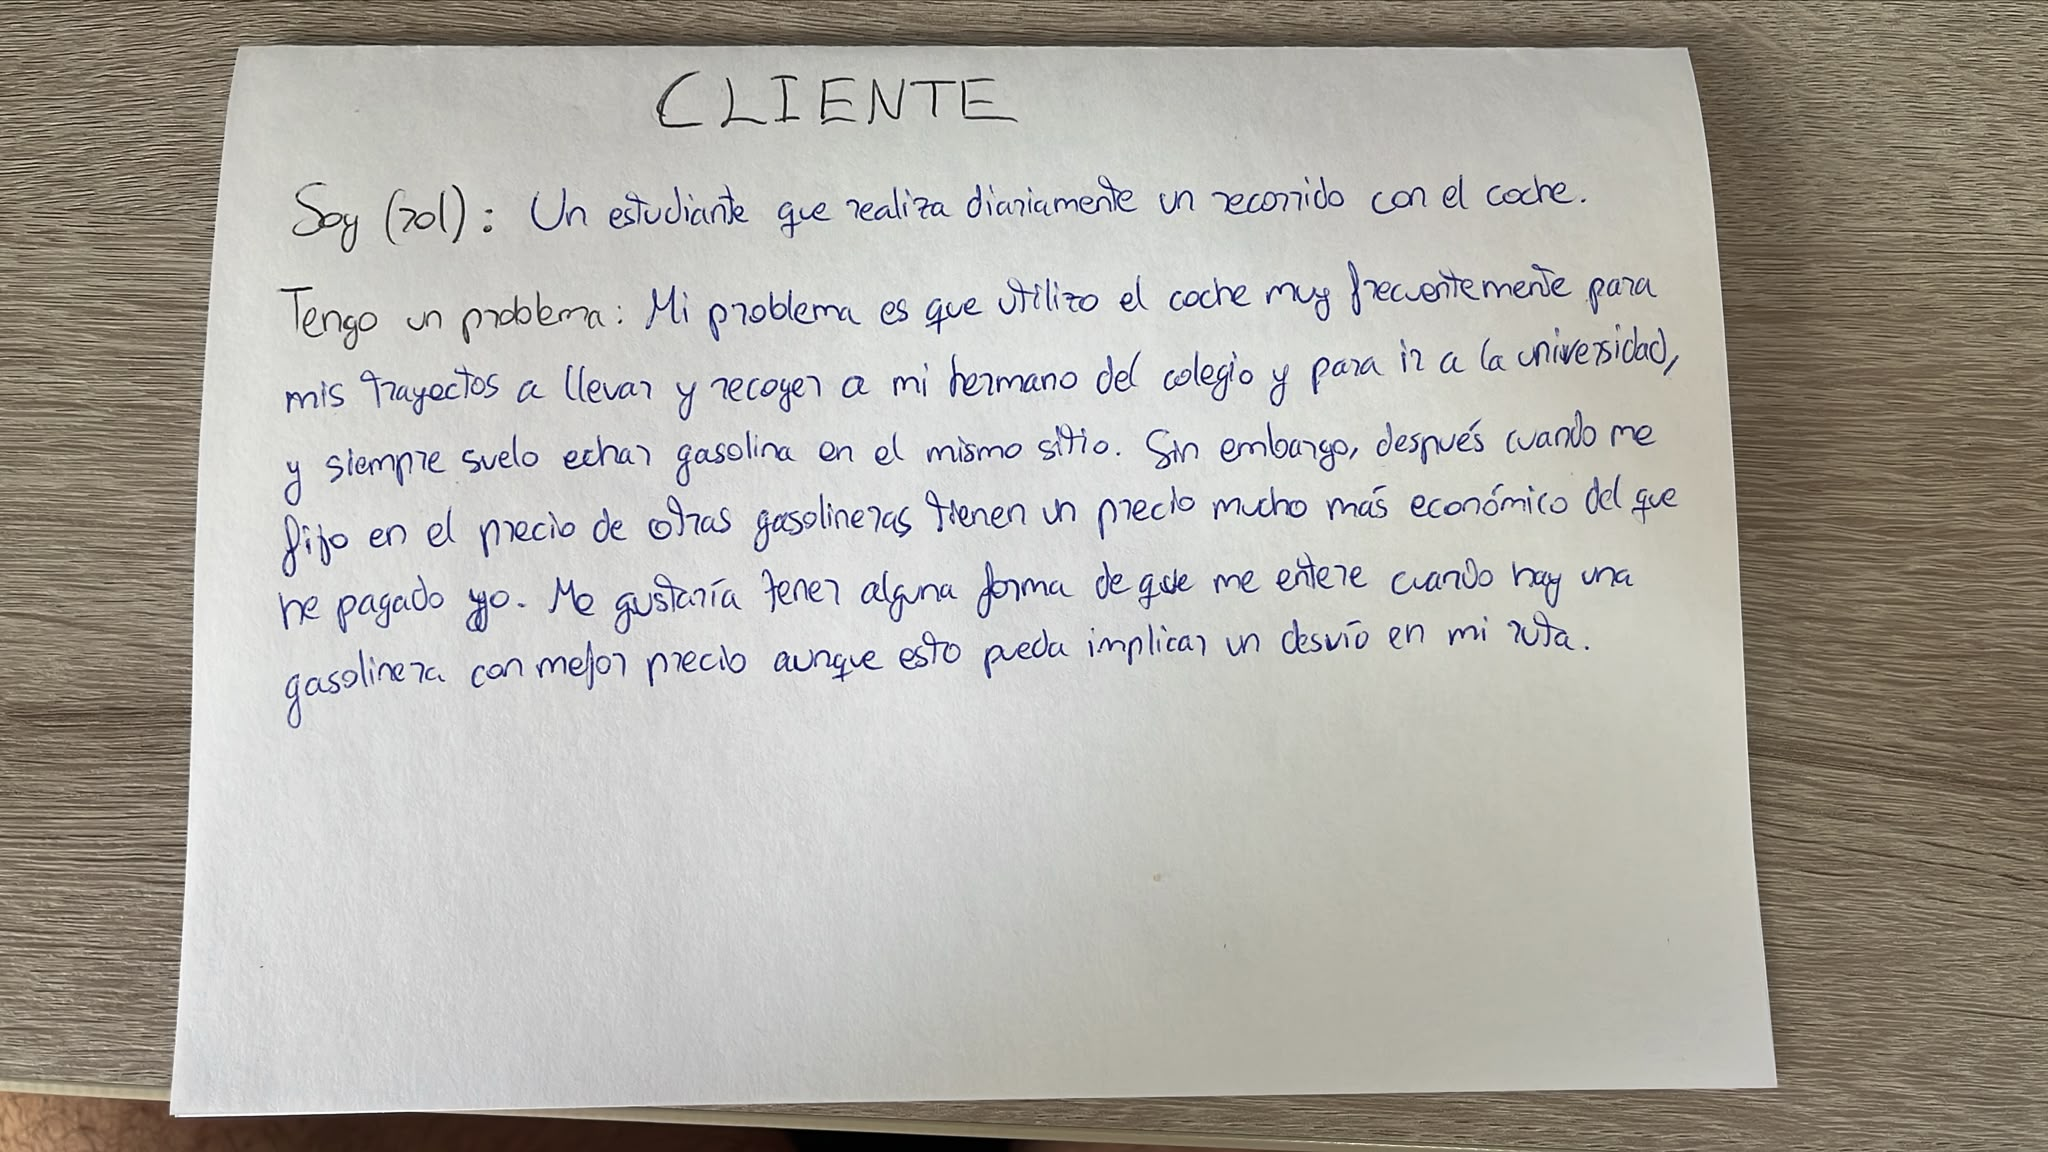
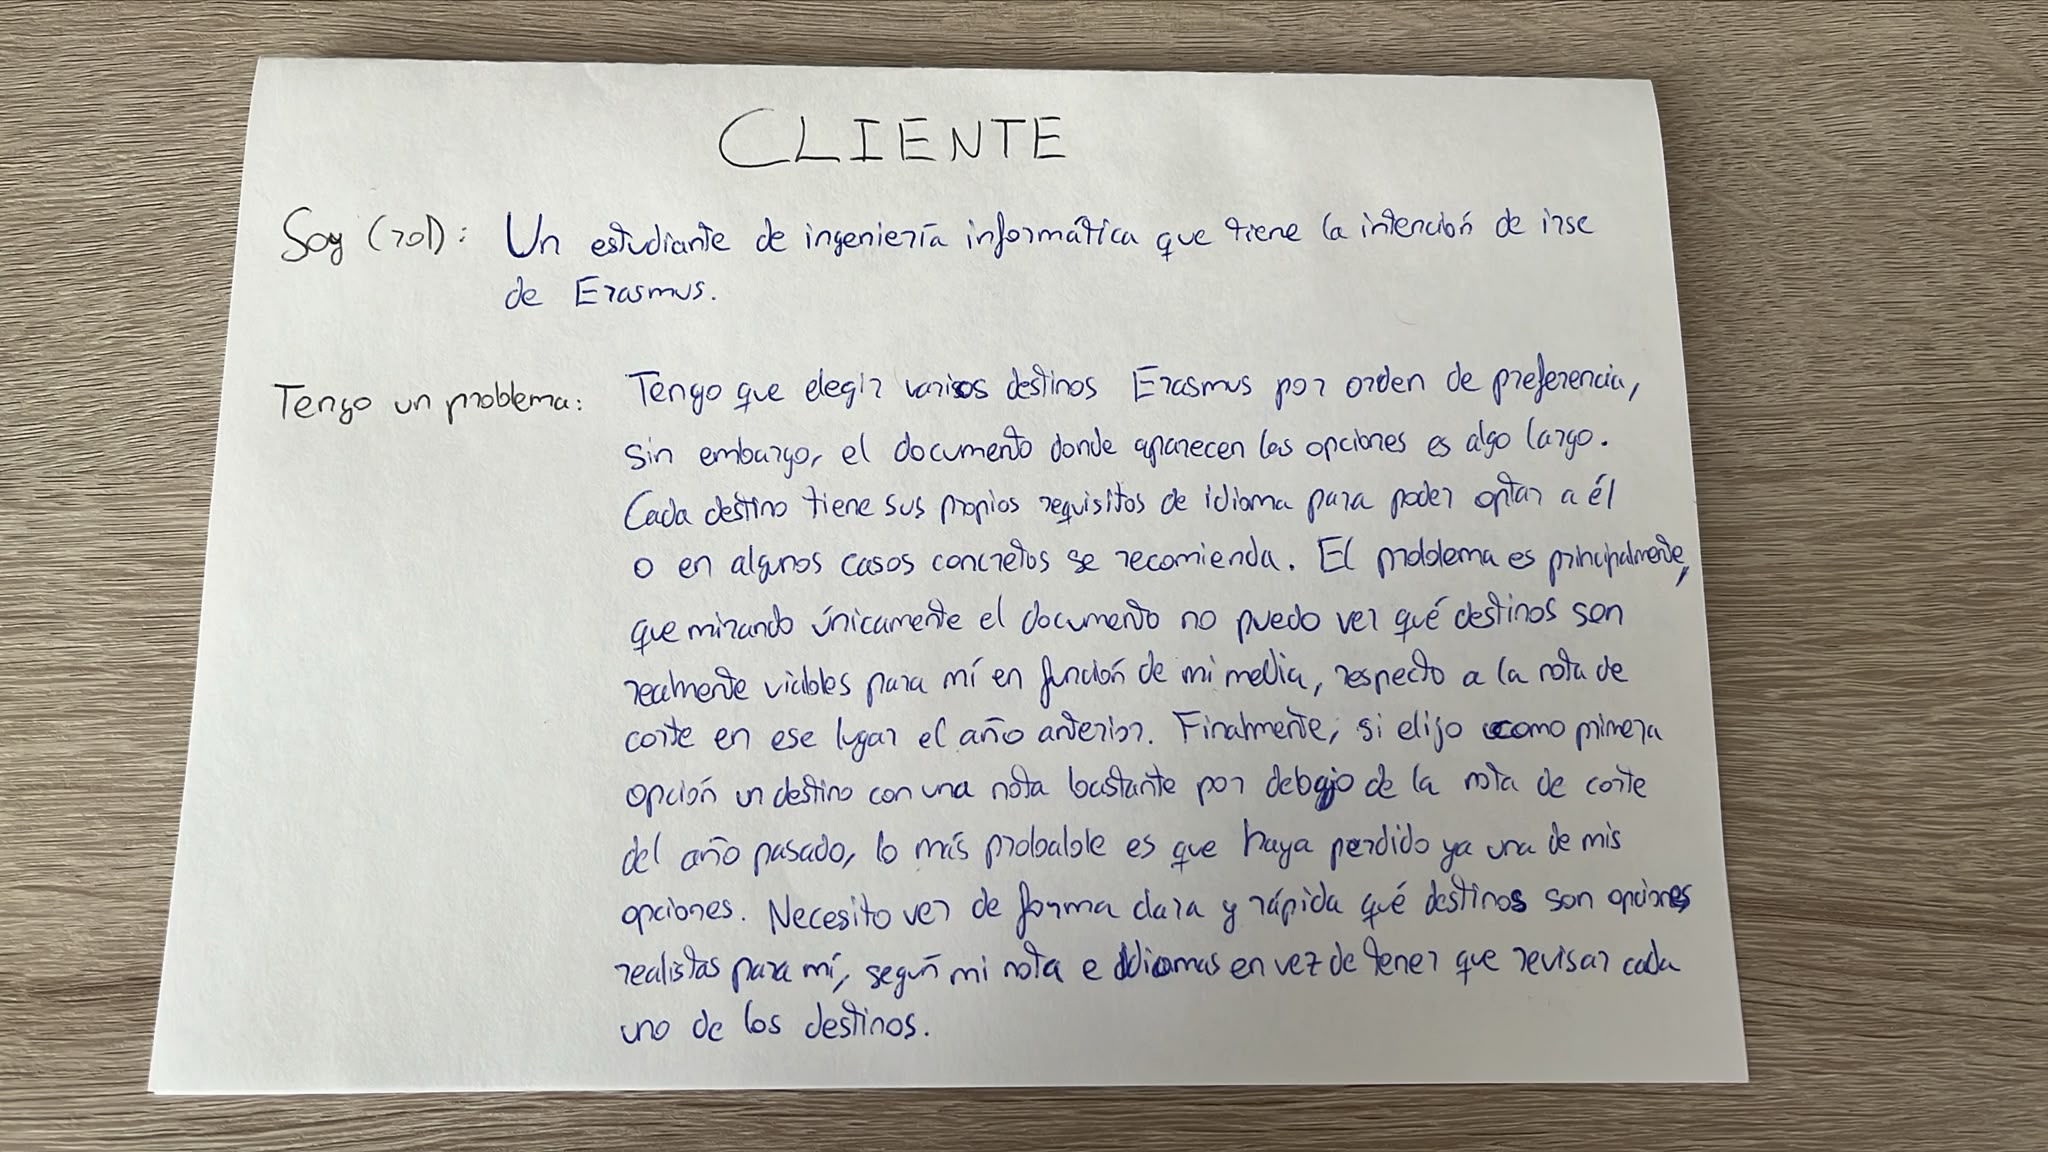
Modificación nombre repositorio, foto de tarjeta de rol y la descripción del nuevo problema

diff --git a/README.md b/README.md
@@ -2,7 +2,36 @@
 
 ## Descripción del problema
 
-Yo, como estudiante utilizo el coche diariamente para realizar mis respectivas obligaciones y siempre suelo repostar en la misma gasolinera. Sin embargo, después cuando me fijo en el precio de otras gasolineras, veo que tienen un precio mucho más económico del que suelo pagar. Es cierto que estos precios pueden variar bastante de un día para otro, por eso necesito alguna forma con la que pueda saber cuando hay una gasolinera con mucho mejor precio en mi trayecto diario para que pueda ahorrarme una gran cantidad de dinero mensualmente. Existe una fuente de datos pública en el Geoportal de Gasolineras del MITECO donde se puede consultar el precio en tiempo real de los carburantes en las gasolineras españolas.
+
+Un estudiante de la Universidad de Granada, en este caso de ingeniería informática, quiere irse de Erasmus, pero no sabe cuáles son sus destinos más probables. Tiene que ir uno a uno mirando si aquel sitio que le ha gustado no tuvo una nota de corte muy superior a la suya. Esta nota viene definida por la nota media del expediente en ese momento de la solicitud y se añade alguna bonificación en función del nivel de idioma:
+
+	-B1: +0.5 puntos
+	-B2:   +1 puntos
+	-C1: +1.5 puntos
+	-C2:   +2 puntos
+	
+Hay un detalle a tener en cuenta, algunos de estos destinos exigen un nivel mínimo de idioma, por ejemplo si en un destino se pide un B2 de inglés y tienes una nota superior a la nota de corte pero tienes un B1 de inglés, no puedes optar a este destino.
+
+Cada estudiante tiene hasta 10 opciones de destinos distintos para solicitar, el problema es que si algún estudiante pone varios destinos en la que la nota de corte es demasiado superior a la del estudiante, seguramente serán opciones que el estudiante ha perdido y le van quedando menos que quizás si sean más asequibles a su nota.
+
+Por todas estas razones, necesito alguna forma de poder ver de forma clara y rápida cuáles son las opciones de destinos más realistas para mí, según mi nota y mi nivel de idioma sin tener que revisar cada una de las opciones disponibles.
+
+Las fuentes de datos públicas para poder realizar esto son:
+
+- Listado de Destinos (015 ETSI Informática y Telecomunicación): 
+https://internacional.ugr.es/estudiantes/movilidad-saliente/grado-estudio/movilidad-internacional/destinos-erasmus
+
+- Listas Seleccionados:
+3ªadjudicación (015 ETSI Informática y Telecomunicación): 
+https://internacional.ugr.es/estudiantes/movilidad-saliente/grado-estudio/movilidad-internacional/definitiva-3-adjudicacion-erasmus-seleccionados
+
+2ªadjudicación (015 ETSI Informática y Telecomunicación): 
+https://internacional.ugr.es/estudiantes/movilidad-saliente/grado-estudio/movilidad-internacional/definitiva-2-adjudicacion-erasmus-seleccionados
+
+1ª adjudicación (015 ETSI Informática y Telecomunicación): 
+https://internacional.ugr.es/estudiantes/movilidad-saliente/grado-estudio/movilidad-internacional/definitiva-1-adjudicacion-erasmus-seleccionados
+
+Es necesario tener acceso a las listas de las 3 convocatorias, ya que las personas que aceptan el destino qué se les ha asignado no vuelven a aparecer en las listas posteriores, ya que no hay posibilidad de acceder a esas plazas.
 
 
 ![Fotografía de la tarjeta de rol](foto.jpeg)
